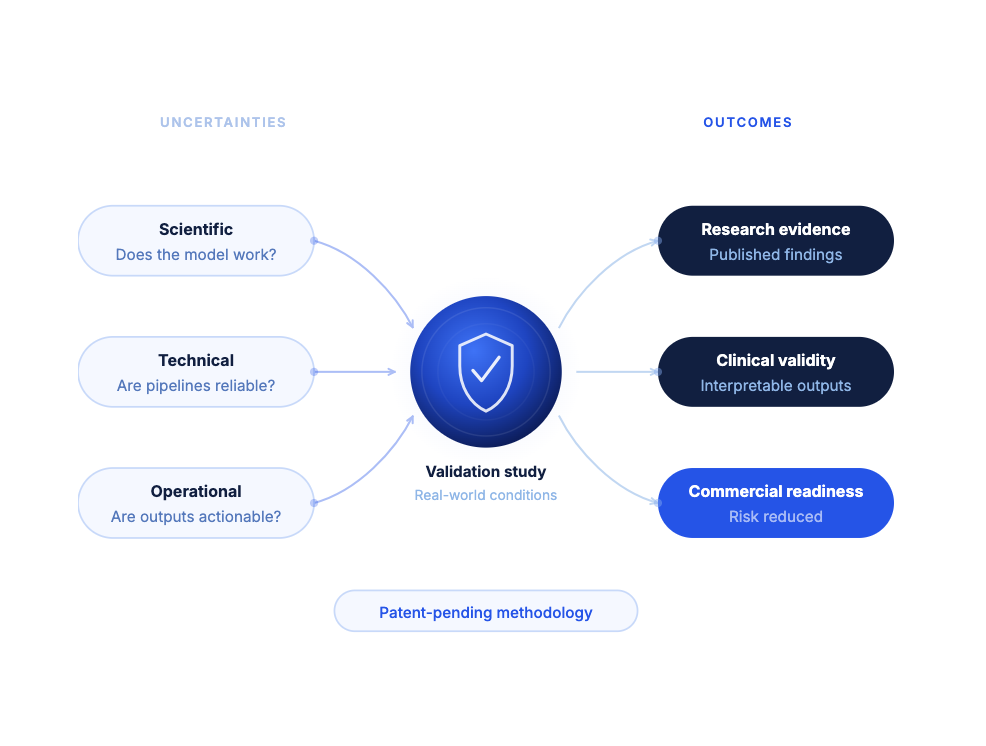
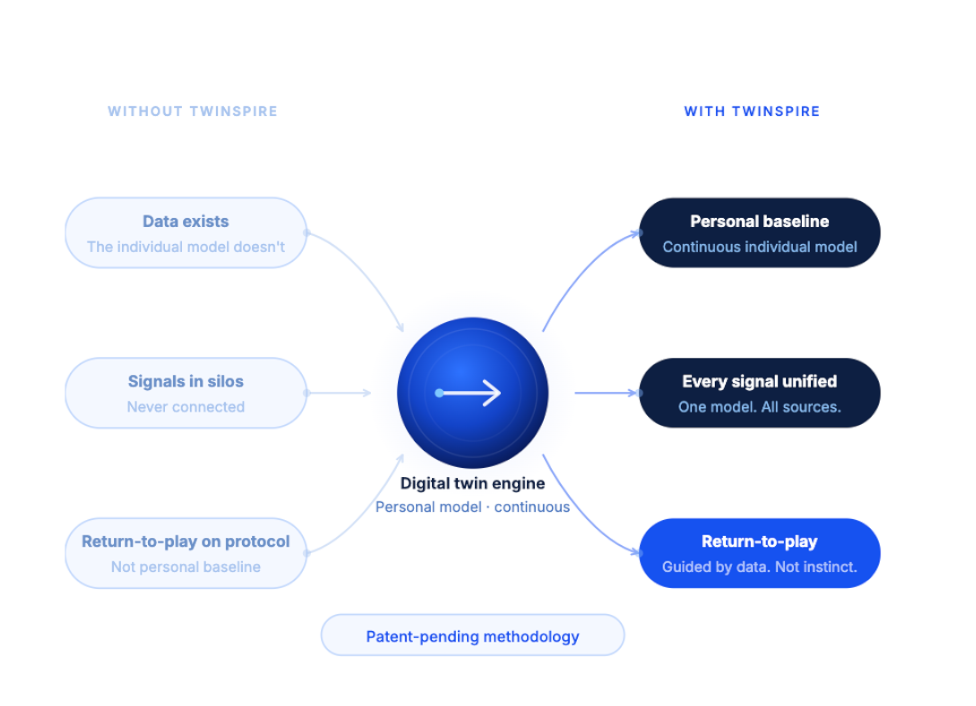
fix: science images display and hero hydration error
- Set image 1 to object-contain with block display to remove baseline gap
- Set image 3 to object-contain object-top to show all content
- Fix hydration error in Hero: replace div with span inside p element

diff --git a/components/sections/Hero/index.tsx b/components/sections/Hero/index.tsx
@@ -95,14 +95,14 @@ export function HeroSection() {
               className="mx-auto mt-2 mb-2 max-w-[720px] text-center md:max-w-none"
               as="p"
             >
-              <div className="flex flex-wrap justify-center gap-3 text-[12px] tracking-wider text-[#C0BEC7] uppercase md:flex-nowrap">
+              <span className="flex flex-wrap justify-center gap-3 text-[12px] tracking-wider text-[#C0BEC7] uppercase md:flex-nowrap">
                 {dataTypes.map((d, i) => (
                   <span key={i} className="font-semibold whitespace-nowrap">
                     {d}
                     {i < dataTypes.length - 1 ? '.' : ''}
                   </span>
                 ))}
-              </div>
+              </span>
 
               <span className="mt-3 block text-[14px] leading-[1.6] text-white/90">
                 {t('hero.valueProp')}

diff --git a/components/sections/ScienceDataTrust/index.tsx b/components/sections/ScienceDataTrust/index.tsx
@@ -186,7 +186,7 @@ function ModelingDiagram() {
       <img
         src="/science/1.png"
         alt="Modeling illustration"
-        className="w-full rounded-xl object-contain"
+        className="block w-full rounded-xl object-contain"
       />
       {/* Original SVG retained as hidden fallback */}
       <svg
@@ -927,7 +927,7 @@ function ValidationDiagram() {
       <img
         src="/science/3.png"
         alt="Validation illustration"
-        className="h-56 w-full rounded-xl object-cover sm:h-64 md:h-72"
+        className="h-56 w-full rounded-xl object-contain object-top sm:h-64 md:h-72"
       />
       <svg
         viewBox="0 0 540 280"